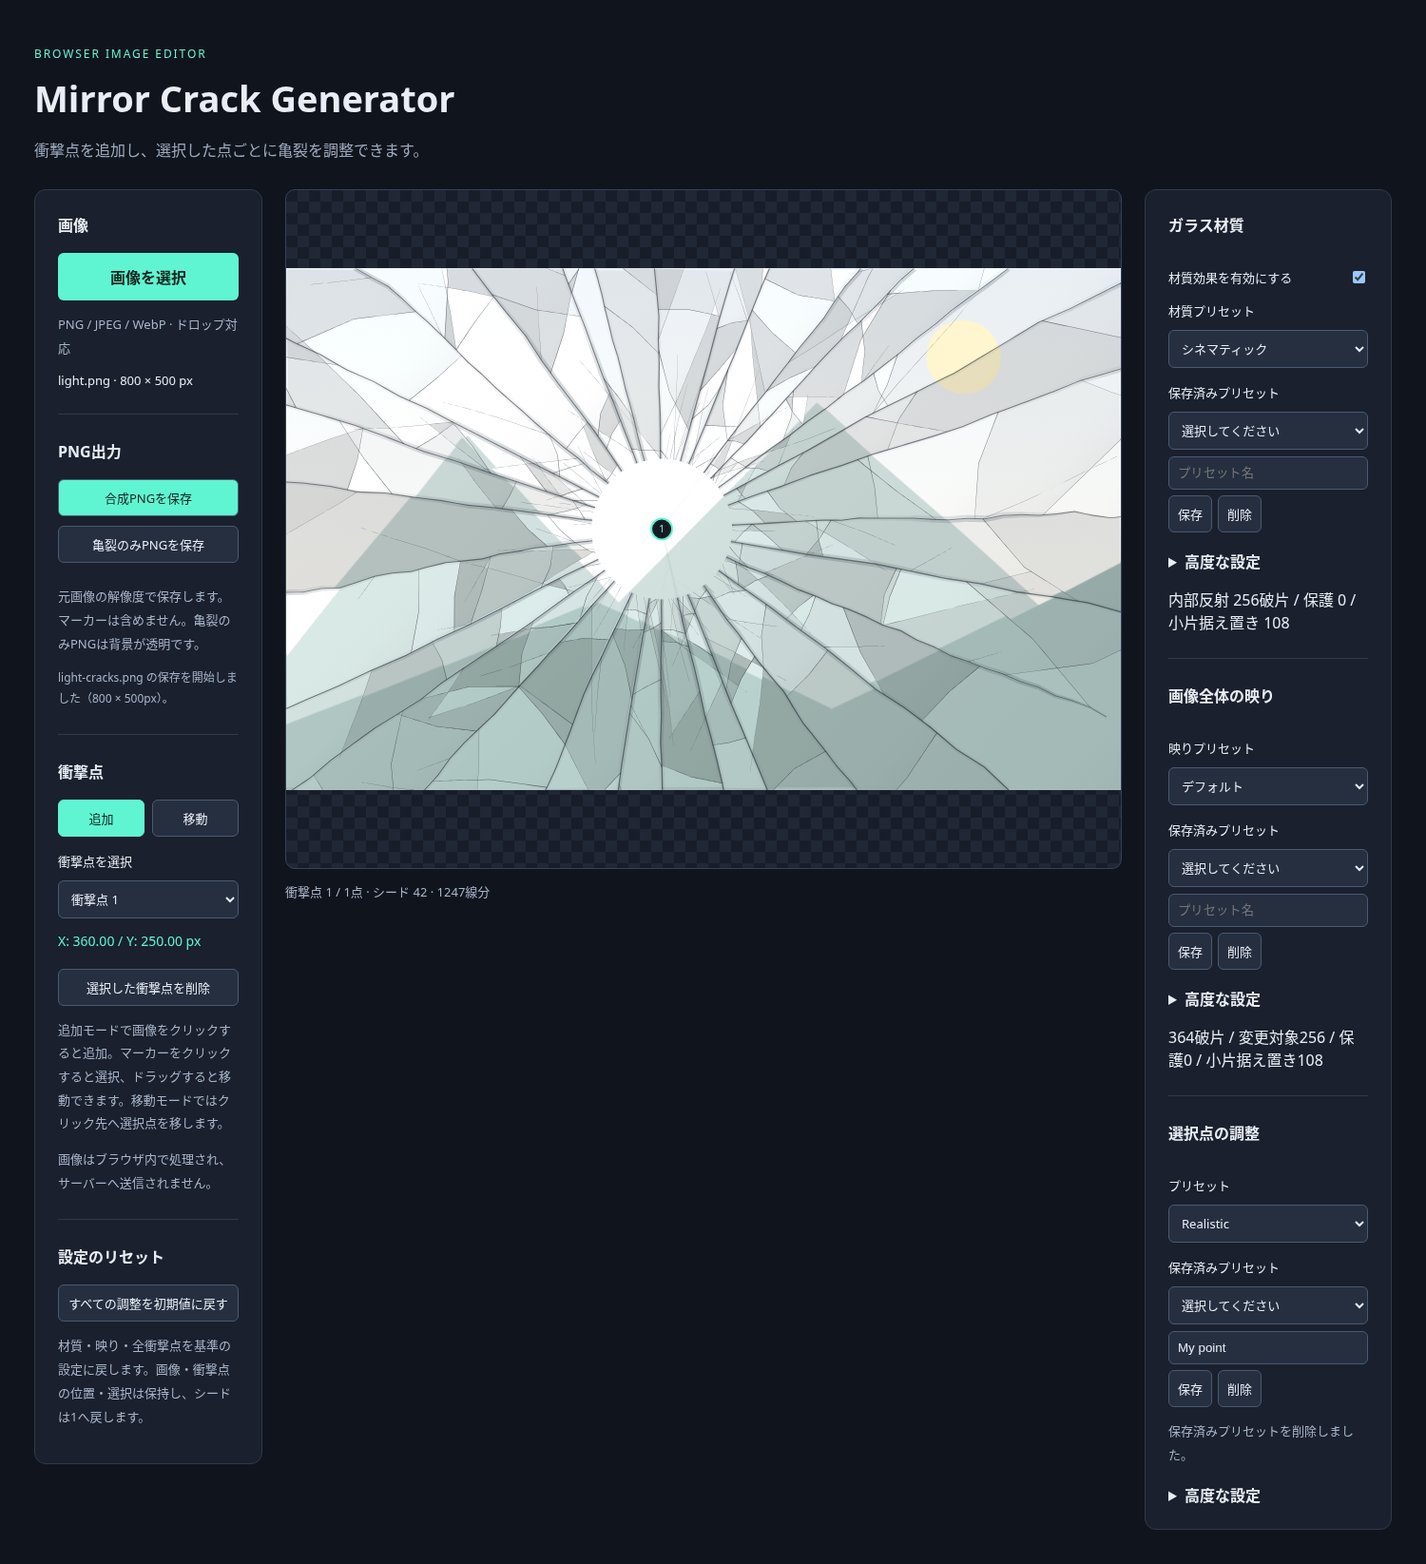
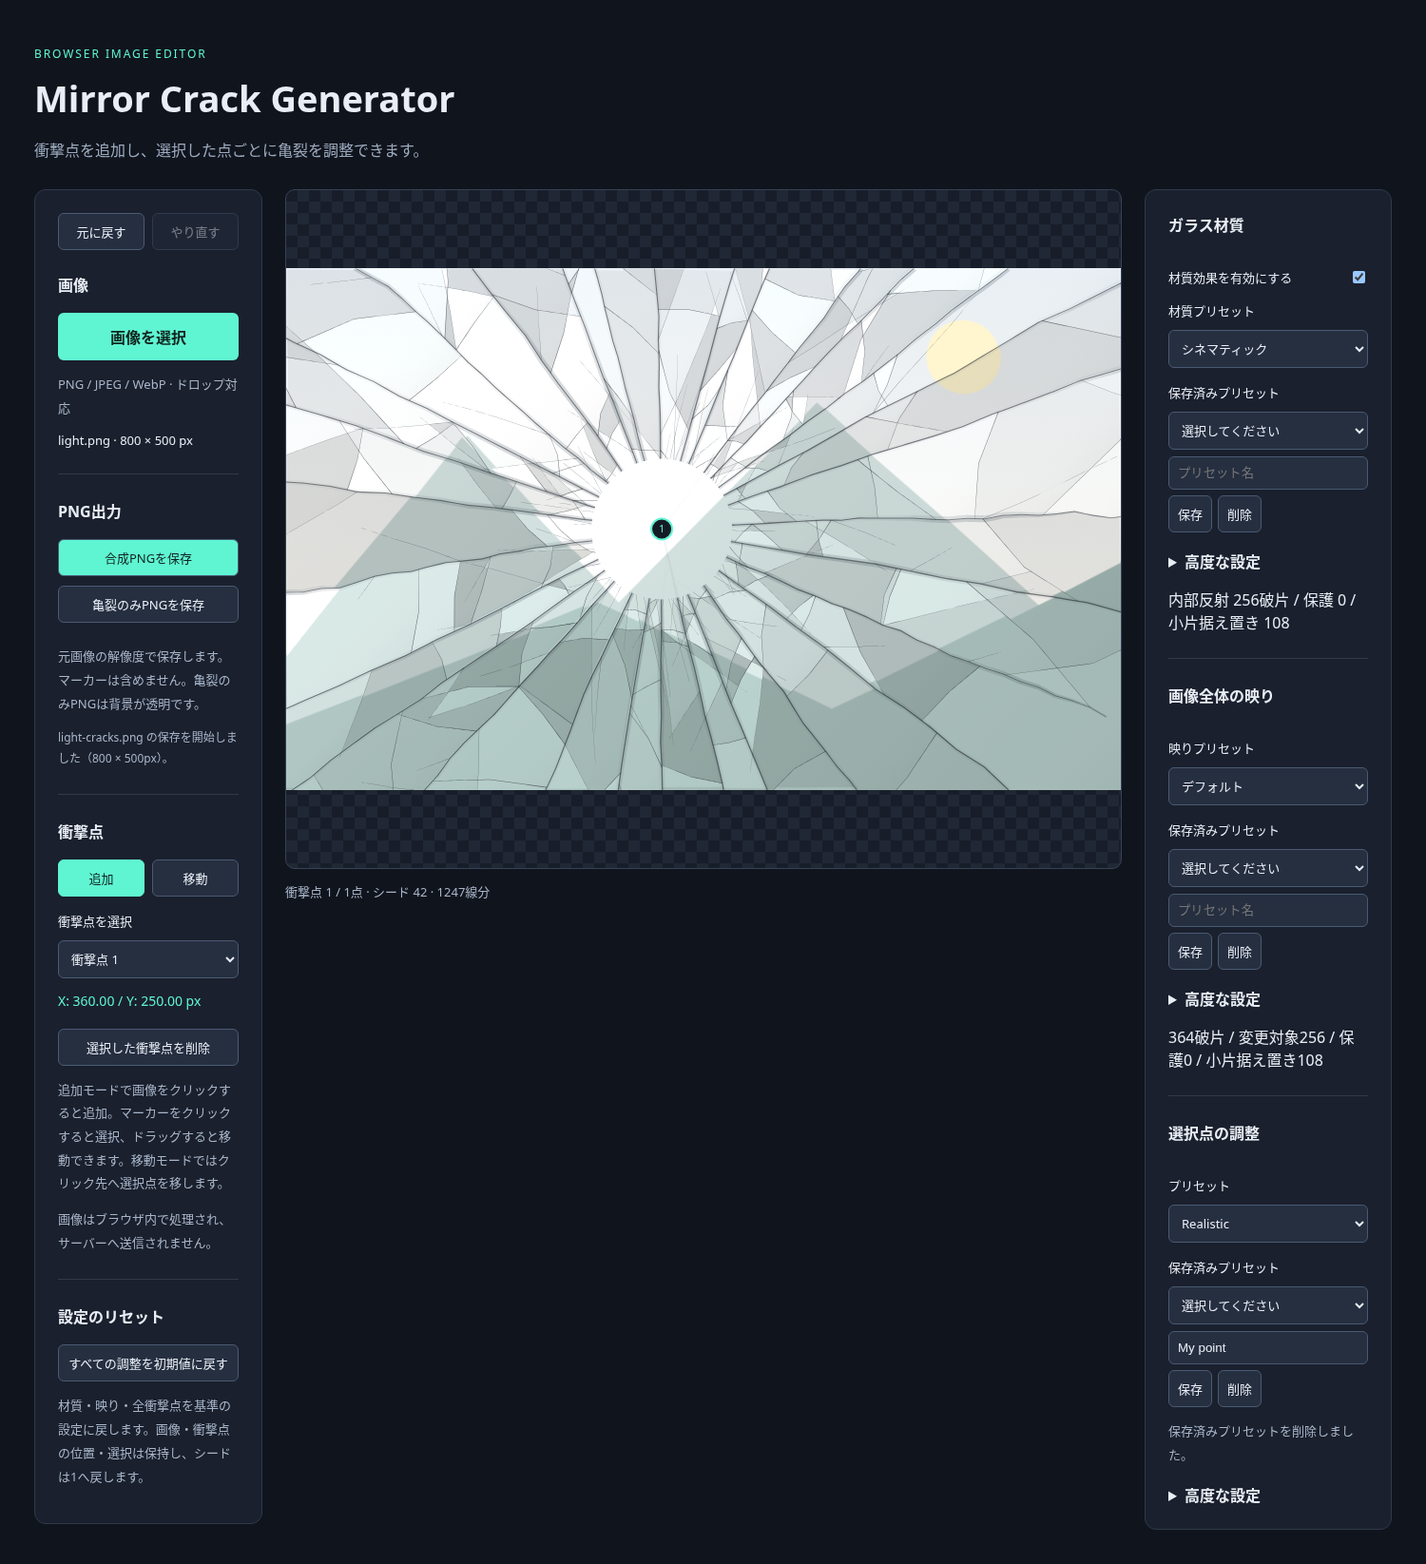
Add bounded undo and redo with grouped editing gestures

Changed region(s): [[0.0307, 0.279, 0.184, 0.9611], [0.0307, 0.124, 0.184, 0.248]]

diff --git a/src/ui/editor.ts b/src/ui/editor.ts
@@ -1,3 +1,4 @@
+import { EditorHistory } from '../state/editorHistory';
 import { PRESET_STORAGE_KEY, decodePresets, savePreset, type SavedPreset, type PresetGroup } from '../state/customPresets';
 import { MATERIAL_SCALES, SHARD_SCALES, POINT_SCALES, DARKNESS_SCALE, controlPosition, controlValue, type ControlScale } from '../state/controlScale';
 import { APPLICATION_SHARD_DEFAULTS, createApplicationEditor, resetApplicationSettings } from '../state/applicationDefaults';
@@ -50,7 +51,7 @@ export function mountEditor(root: HTMLElement): void {
   root.innerHTML = `
     <header><p class="eyebrow">BROWSER IMAGE EDITOR</p><h1>Mirror Crack Generator</h1>
     <p>衝撃点を追加し、選択した点ごとに亀裂を調整できます。</p></header>
-    <main><section class="panel"><h2>画像</h2>
+    <main><section class="panel"><div class="tools history-tools" role="group" aria-label="編集履歴"><button type="button" id="undo" disabled title="元に戻す（Ctrl / ⌘ + Z）">元に戻す</button><button type="button" id="redo" disabled title="やり直す（Ctrl + Y / ⌘ + Shift + Z）">やり直す</button></div><h2>画像</h2>
       <label class="upload">画像を選択<input id="image-file" type="file" accept="image/png,image/jpeg,image/webp"></label>
       <p class="hint">PNG / JPEG / WebP · ドロップ対応</p>
       <p class="metadata">画像未選択</p>      <hr><h2>PNG出力</h2>
@@ -123,6 +124,7 @@ export function mountEditor(root: HTMLElement): void {
   const preset = get<HTMLSelectElement>('#preset');
   let image: HTMLImageElement | null = null;
   let state: EditorState | null = null;
+  let history = new EditorHistory();
   let saved: SavedPreset[] = [];
   try { saved = decodePresets(localStorage.getItem(PRESET_STORAGE_KEY)); } catch { get('#material-save-status').textContent='保存済みプリセットを読み込めません。ブラウザの保存設定をご確認ください。'; }
   let mode: Mode = 'add';
@@ -131,6 +133,8 @@ export function mountEditor(root: HTMLElement): void {
   let loading = false;
   let exporting = false;
   function syncExportControls(): void {
+    get<HTMLButtonElement>('#undo').disabled = !history.canUndo || loading || exporting || !!drag;
+    get<HTMLButtonElement>('#redo').disabled = !history.canRedo || loading || exporting || !!drag;
     get<HTMLButtonElement>('#reset-settings').disabled = !image || loading || exporting;
     get<HTMLButtonElement>('#export-composite').disabled = !image || loading || exporting;
     get<HTMLButtonElement>('#export-cracks').disabled = !image || loading || exporting;
@@ -225,18 +229,54 @@ export function mountEditor(root: HTMLElement): void {
   }
   const pending = new Map<string, () => void>();
   let frame = 0;
+  function perform(action:()=>void, group?:string):void {
+    const before=state?.snapshot();
+    try {
+      action();
+      if(before&&state)history.record(before,state.snapshot(),group);
+    }catch(error){
+      if(before&&state)state.restore(before);
+      throw error;
+    }
+  }
   function flush(): void {
     cancelAnimationFrame(frame); frame = 0;
+    const group=[...pending.keys()].join('|');
     const actions = [...pending.values()]; pending.clear();
-    for (const action of actions) action();
+    if(actions.length)perform(()=>{for(const action of actions)action();},group);
   }
   function queue(key: string, action: () => void): void {
     pending.set(key, action);
-    if (!frame) frame = requestAnimationFrame(() => edit(() => {}));
+    if (!frame) frame = requestAnimationFrame(() => {
+      try{flush();refresh();}catch(error){status.textContent=error instanceof Error?error.message:'編集できませんでした。';}
+    });
   }
-  function edit(action: () => void): void {
-    try { flush(); action(); refresh(); }
+  function edit(action: () => void, group?:string): void {
+    try { flush(); if(!group)history.endGroup();perform(action,group); refresh(); }
     catch (error) { status.textContent = error instanceof Error ? error.message : '編集できませんでした。'; }
+  }
+  function navigateHistory(direction:'undo'|'redo'):void {
+    if(!state||loading||exporting||drag)return;
+    try {
+      flush();const snapshot=history[direction]();
+      if(snapshot){state.restore(snapshot);if(!state.active)mode='add';}
+      refresh();
+    }catch(error){status.textContent=error instanceof Error?error.message:'履歴を復元できませんでした。';}
+  }
+  get('#undo').addEventListener('click',()=>navigateHistory('undo'));
+  get('#redo').addEventListener('click',()=>navigateHistory('redo'));
+  window.addEventListener('keydown',event=>{
+    if(!(event.ctrlKey||event.metaKey)||event.altKey)return;
+    const target=event.target;
+    if(target instanceof HTMLElement&&(target.closest('input:not([type=range]):not([type=checkbox]):not([type=file]),textarea,select,[contenteditable]:not([contenteditable=false])')))return;
+    const key=event.key.toLowerCase();
+    if(key==='z'||key==='y'){
+      event.preventDefault();navigateHistory(key==='y'||event.shiftKey?'redo':'undo');
+    }
+  });
+  for(const control of root.querySelectorAll<HTMLInputElement>('input[type=range]')){
+    const finish=()=>{try{flush();history.endGroup();refresh();}catch(error){status.textContent=error instanceof Error?error.message:'編集できませんでした。';}};
+    control.addEventListener('change',finish);control.addEventListener('blur',finish);
   }
   async function open(files: FileList | null): Promise<void> {
     if (!files?.length) return;
@@ -255,6 +295,7 @@ export function mountEditor(root: HTMLElement): void {
       image = next; imageName = file.name;
       get('#export-status').textContent = '';
       state = createApplicationEditor({ width: next.naturalWidth, height: next.naturalHeight });
+      history = new EditorHistory();
       mode = 'add'; drag = null;
       get<HTMLElement>('.metadata').textContent = `${file.name} · ${next.naturalWidth} × ${next.naturalHeight} px`;
       get<HTMLElement>('.placeholder').hidden = true;
@@ -419,19 +460,19 @@ export function mountEditor(root: HTMLElement): void {
     const point = toImage(event);
     if (!point) return;
     drag.moved = true;
-    edit(() => state!.update({ origin: point }));
+    edit(() => state!.update({ origin: point }), 'drag');
   });
   const stopDrag = (event: PointerEvent) => {
     if (drag?.pointerId !== event.pointerId) return;
-    drag = null;
+    drag = null;history.endGroup();syncExportControls();
     if (canvas.hasPointerCapture(event.pointerId)) canvas.releasePointerCapture(event.pointerId);
   };
   canvas.addEventListener('pointerup', stopDrag);
   canvas.addEventListener('pointercancel', event => {
-    if (drag?.pointerId === event.pointerId && state) edit(() => state!.update({ origin: drag!.origin }));
+    if (drag?.pointerId === event.pointerId && state) edit(() => state!.update({ origin: drag!.origin }), 'drag');
     stopDrag(event);
   });
-  canvas.addEventListener('lostpointercapture', () => { drag = null; });
+  canvas.addEventListener('lostpointercapture', () => { drag = null;history.endGroup();syncExportControls(); });
   new ResizeObserver(redraw).observe(stage);
   window.addEventListener('resize', redraw);
   refresh();

diff --git a/src/state/editorHistory.test.ts b/src/state/editorHistory.test.ts
@@ -1,0 +1,60 @@
+import { expect, it } from 'vitest';
+import { EditorHistory } from './editorHistory';
+import { createApplicationEditor, resetApplicationSettings } from './applicationDefaults';
+const size={width:800,height:500};
+function setup(limit=50){
+ const state=createApplicationEditor(size),history=new EditorHistory(limit);
+ const edit=(action:()=>void,group?:string)=>{const before=state.snapshot();action();history.record(before,state.snapshot(),group);};
+ const undo=()=>{const snapshot=history.undo();if(snapshot)state.restore(snapshot);};
+ const redo=()=>{const snapshot=history.redo();if(snapshot)state.restore(snapshot);};
+ return{state,history,edit,undo,redo};
+}
+it('追加・移動・削除を往復し、座標・選択・ID採番と亀裂を再現する',()=>{
+ const {state,history,edit,undo,redo}=setup();expect(history.canUndo).toBe(false);expect(history.undo()).toBeUndefined();
+ edit(()=>state.add({x:250,y:200}));edit(()=>state.add({x:550,y:300}));
+ const original=structuredClone(state.impacts);edit(()=>state.update({origin:{x:500,y:350}}));const moved=structuredClone(state.impacts);
+ edit(()=>state.remove());expect(state.selectedId).toBe(1);undo();expect(state.impacts).toEqual(moved);expect(state.selectedId).toBe(2);
+ undo();expect(state.impacts).toEqual(original);redo();expect(state.impacts).toEqual(moved);
+ undo();undo();expect(state.impacts).toHaveLength(1);expect(state.selectedId).toBe(1);undo();expect(state.impacts).toEqual([]);expect(state.selectedId).toBeNull();
+ redo();redo();expect(state.impacts).toEqual(original);expect(state.add({x:700,y:450}).id).toBe(3);
+});
+it('プリセット・マクロ上書き・シード・材質・映り・全体リセットを正確に往復する',()=>{
+ const {state,edit,undo,redo}=setup();state.add({x:350,y:250});
+ edit(()=>{state.applyPreset('shattered');state.updateStrength(90);state.update({params:{lineWidth:4},seed:42});state.glass.applyPreset('real');state.shards.update({gap:40});});
+ const snapshot=state.snapshot(),pattern=structuredClone(state.active!.pattern);
+ edit(()=>state.glass.update({thickness:120,lightDirection:90}));const custom=state.snapshot();undo();expect(state.glass.preset).toBe('real');redo();expect(state.snapshot()).toEqual(custom);
+ undo();edit(()=>resetApplicationSettings(state));undo();expect(state.snapshot()).toEqual(snapshot);expect(state.active!.pattern).toEqual(pattern);redo();expect(state.active!.seed).toBe(1);expect(state.glass.preset).toBe('cinematic');
+});
+it('同じ操作中の連続変更だけまとめ、別操作との境界・往復・分岐を維持する',()=>{
+ const {state,history,edit,undo,redo}=setup();state.add({x:350,y:250});
+ edit(()=>state.update({params:{lineWidth:2}}),'width');edit(()=>state.update({params:{lineWidth:3}}),'width');edit(()=>state.update({params:{lineWidth:4}}),'width');
+ undo();expect(state.active!.params.lineWidth).toBe(1);expect(history.canUndo).toBe(false);redo();expect(state.active!.params.lineWidth).toBe(4);
+ history.endGroup();edit(()=>state.update({params:{lineWidth:5}}),'width');undo();expect(state.active!.params.lineWidth).toBe(4);
+ edit(()=>state.update({seed:99}));expect(history.canRedo).toBe(false);expect(history.redo()).toBeUndefined();
+});
+it('移動キャンセルで履歴を残さず、その次の操作が直前の履歴に混ざらない',()=>{
+ const {state,history,edit,undo}=setup();state.add({x:350,y:250});edit(()=>state.update({seed:2}));
+ edit(()=>state.update({origin:{x:500,y:250}}),'drag');edit(()=>state.update({origin:{x:350,y:250}}),'drag');
+ edit(()=>state.update({origin:{x:600,y:250}}),'drag');undo();expect(state.active!.origin.x).toBe(350);expect(state.active!.seed).toBe(2);undo();expect(state.active!.seed).toBe(1);expect(history.canUndo).toBe(false);
+});
+it('選択・無変更は履歴を増やさず、Redoも消さない',()=>{
+ const {state,history,edit,undo}=setup();state.add({x:200,y:150});state.add({x:600,y:350});
+ edit(()=>state.select(1));expect(history.canUndo).toBe(false);edit(()=>state.regenerate());undo();expect(history.canRedo).toBe(true);edit(()=>state.select(2));expect(history.canRedo).toBe(true);
+});
+it('上限で古い履歴を破棄し、設定スナップショットに生成幾何を保持しない',()=>{
+ const {state,history,edit,undo}=setup(2);state.add({x:350,y:250});
+ for(let seed=2;seed<=4;seed++)edit(()=>state.update({seed}));undo();undo();expect(state.active!.seed).toBe(2);expect(history.canUndo).toBe(false);
+ const snapshot=state.snapshot();expect(snapshot.impacts[0]).not.toHaveProperty('pattern');expect(snapshot.impacts[0]).not.toHaveProperty('fracture');snapshot.impacts[0].params.lineWidth=9;expect(state.active!.params.lineWidth).toBe(1);
+ expect(()=>new EditorHistory(0)).toThrow();
+});
+
+it('キャンセルしたドラッグの前にあったやり直しを保持する',()=>{
+ const {state,history,edit,undo,redo}=setup();state.add({x:350,y:250});edit(()=>state.update({seed:2}));undo();
+ edit(()=>state.update({origin:{x:500,y:250}}),'drag');edit(()=>state.update({origin:{x:350,y:250}}),'drag');
+ expect(history.canRedo).toBe(true);expect(history.canUndo).toBe(false);redo();expect(state.active!.seed).toBe(2);
+});
+
+it('履歴上限に達した後のドラッグキャンセルでも古い操作を失わない',()=>{
+ const {state,history,edit,undo}=setup(1);state.add({x:350,y:250});edit(()=>state.update({seed:2}));
+ edit(()=>state.update({origin:{x:500,y:250}}),'drag');edit(()=>state.update({origin:{x:350,y:250}}),'drag');undo();expect(state.active!.seed).toBe(1);expect(history.canUndo).toBe(false);
+});

diff --git a/src/state/editorState.ts b/src/state/editorState.ts
@@ -1,3 +1,5 @@
+import type { GlassMaterialSettings, GlassMaterialPreset } from '../core/glassMaterial';
+import type { ShardImageSettings } from './shardImageState';
 import { EXPANDED_LIMITS } from '../core/effectRanges';
 import { GlassMaterialState } from './glassMaterialState';
 import { ShardImageState } from './shardImageState';
@@ -22,6 +24,11 @@ export type Impact = {
   overrides?: Partial<ImpactParams>;
   surfaceOverrides?: Partial<SurfaceSettings>;
   fracture?: FractureGeometry;
+};
+export type ImpactSnapshot = Omit<Impact, 'pattern' | 'fracture'>;
+export type EditorSnapshot = {
+ impacts: ImpactSnapshot[]; selected: number | null; nextId: number;
+ material: GlassMaterialSettings; materialPreset?: GlassMaterialPreset; shards: ShardImageSettings;
 };
 export const PRESETS: Record<StylePreset, Readonly<ImpactParams>> = {
   realistic: Object.freeze({ ...DEFAULT_CRACK_PARAMS, radialCount: 16, complexity: 75,
@@ -48,6 +55,22 @@ export class EditorState {
   get impacts(): readonly Impact[] { return this.items; }
   get selectedId(): number | null { return this.selected; }
   get active(): Impact | undefined { return this.items.find(impact => impact.id === this.selected); }
+
+  snapshot(): EditorSnapshot {
+    return structuredClone({impacts:this.items.map(({pattern: _pattern,fracture: _fracture,...values})=>values),
+      selected:this.selected,nextId:this.nextId,material:this.glass.settings,materialPreset:this.glass.preset,shards:this.shards.settings});
+  }
+  /** Internal history snapshots only. Prepare all geometry before replacing the point list. */
+  restore(snapshot: EditorSnapshot): void {
+    const data=structuredClone(snapshot);
+    const restored=data.impacts.map(impact=>{
+      const pattern=generateCracks(this.size,impact.origin,impact.seed,impact.params);
+      return {...impact,pattern,fracture:generateFractureSurface(pattern,this.size,impact.surface?.widthPercent??0,impact.surface?.chipDensity??0)};
+    });
+    if(data.materialPreset)this.glass.applyPreset(data.materialPreset);else this.glass.update(data.material);
+    this.shards.update(data.shards);
+    this.items=restored;this.selected=data.selected;this.nextId=data.nextId;
+  }
 
   select(id: number): void {
     if (this.items.some(impact => impact.id === id)) this.selected = id;

diff --git a/src/state/editorHistory.ts b/src/state/editorHistory.ts
@@ -1,0 +1,38 @@
+import type { EditorSnapshot } from './editorState';
+/** Selection alone is navigation, not an edit. Snapshots contain no generated geometry or image. */
+function same(a:EditorSnapshot,b:EditorSnapshot):boolean {
+ const comparable=(s:EditorSnapshot)=>({...s,selected:null,impacts:s.impacts.map(i=>({...i,overrides:i.overrides??{},surfaceOverrides:i.surfaceOverrides??{}}))});
+ return JSON.stringify(comparable(a))===JSON.stringify(comparable(b));
+}
+type Entry={before:EditorSnapshot;after:EditorSnapshot};
+export class EditorHistory {
+ private past:Entry[]=[];
+ private future:Entry[]=[];
+ private groupFuture:Entry[]=[];
+ private groupEvicted:Entry|undefined;
+ private group:string|undefined;
+ constructor(private readonly limit=50){if(!Number.isInteger(limit)||limit<1)throw new Error('履歴上限が不正です。');}
+ get canUndo():boolean{return this.past.length>0;}
+ get canRedo():boolean{return this.future.length>0;}
+ endGroup():void{this.group=undefined;this.groupFuture=[];this.groupEvicted=undefined;}
+ record(before:EditorSnapshot,after:EditorSnapshot,group?:string):void {
+  if(same(before,after))return;
+  const last=this.past.at(-1);
+  if(group&&group===this.group&&last){
+   last.after=after;
+   if(same(last.before,after)){this.past.pop();if(this.groupEvicted)this.past.unshift(this.groupEvicted);this.future=this.groupFuture;this.endGroup();return;}
+  }else{
+   this.endGroup();this.groupFuture=group?this.future:[];
+   this.past.push({before,after});if(this.past.length>this.limit){const removed=this.past.shift();if(group)this.groupEvicted=removed;}
+  }
+  this.group=group;this.future=[];
+ }
+ undo():EditorSnapshot|undefined {
+  this.endGroup();const entry=this.past.pop();if(!entry)return;
+  this.future.push(entry);return entry.before;
+ }
+ redo():EditorSnapshot|undefined {
+  this.endGroup();const entry=this.future.pop();if(!entry)return;
+  this.past.push(entry);return entry.after;
+ }
+}

diff --git a/src/style.css b/src/style.css
@@ -26,3 +26,5 @@ canvas{touch-action:none}.sr-only{position:absolute;width:1px;height:1px;padding
 #point-reset{width:100%;margin-top:12px}
 
 .preset-save{display:flex;flex-wrap:wrap;gap:6px}.preset-save input{min-width:0;width:100%;background:#252f40;color:#e9edf5;border:1px solid #4a5a73;border-radius:6px;padding:9px}.settings details{margin-top:18px}
+
+.history-tools{margin-bottom:24px}

diff --git a/ARCHITECTURE.md b/ARCHITECTURE.md
@@ -208,3 +208,8 @@ UIは既存の編集キューをフラッシュしてから初期化し、プレ
 
 ## カスタムプリセット
 `state/customPresets.ts`は保存形式・入力検証・同名上書きと件数上限を扱う純粋関数。UIはlocalStorageの読み書きを例外処理し、保存成功後だけライブラリを更新する。名前はOptionのテキストとして表示する。画像・座標・シード・生成幾何は保存しない。選択点の保存値はスタイル・実効パラメータ・黒線濃度で、適用時は個別値を優先し旧破断面強調を0に保つ。
+
+## 編集履歴
+`EditorState.snapshot/restore` は生成幾何・画像を除いた設定、座標、シード、ID採番、選択、マクロ上書き、材質プリセットと映りを保持・復元する。復元時は純粋な生成関数で幾何を再構成する。
+`state/editorHistory.ts` は最大50操作のUndo/Redoと同一ジェスチャーの統合を管理する。単なる選択は履歴を作らず、編集後はRedoを破棄。キャンセルしたドラッグは履歴を残さず、元のRedoも保持する。
+UIの共通編集処理は前後のスナップショットを記録し、失敗時は編集前へ戻す。待機中のスライダー入力は履歴移動・PNG出力前に確定する。範囲操作のchange/blurとドラッグ終了でグループを区切る。別画像の読み込み成功時に履歴を作り直し、読み込み失敗では維持する。画像、保存済みライブラリ、折りたたみ表示、編集モードは履歴に含めない。

diff --git a/docs/DEVELOPMENT.md b/docs/DEVELOPMENT.md
@@ -182,3 +182,5 @@ Playwrightでの検証は `node tests/reset-settings-ui.cjs`（必要ならNODE_
 
 プリセットは常時表示し、材質・映り・選択点それぞれの高度な設定だけ折りたたむ。PNG出力は画像と衝撃点操作の間。
 `node tests/preset-library-ui.cjs`で保存・再読み込み・呼び出し・削除・保存拒否、描画一致と両PNGを確認できる（PlaywrightのNODE_PATHが必要な環境では指定）。
+
+Undo/Redoの状態テストは `src/state/editorHistory.test.ts`。ブラウザ確認は `node tests/undo-redo-ui.cjs`（PlaywrightのNODE_PATHが必要な環境では指定、`EDITOR_URL`でdev/previewを指定可）。ドラッグ/キャンセル、連続スライダー、履歴分岐、両PNGの完全一致、ショートカットと入力欄の除外、画像変更時の履歴初期化を確認する。
